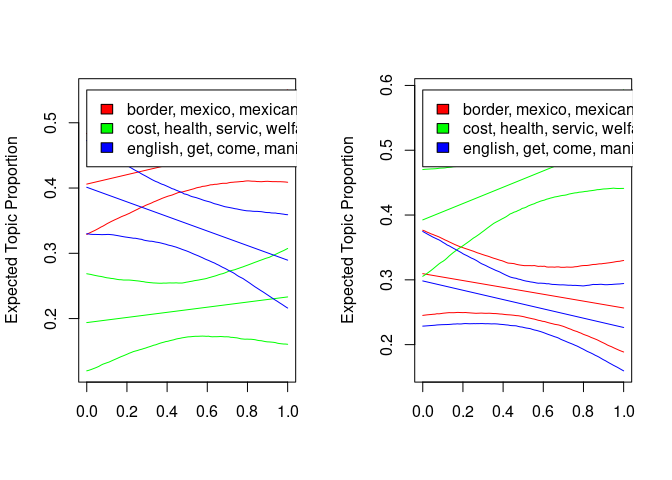
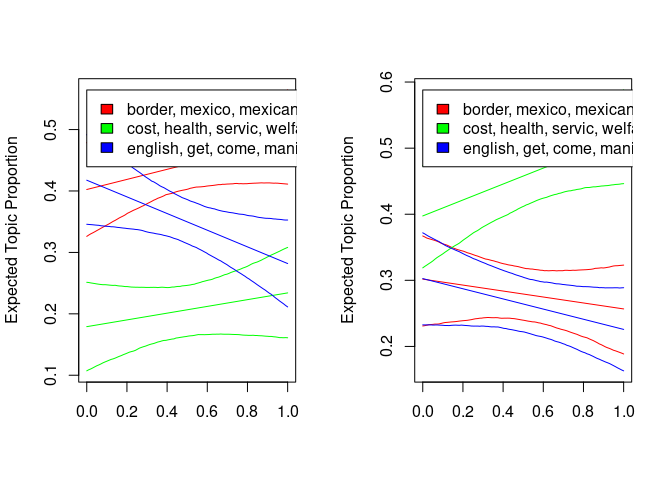
Added smiley to readme, important

diff --git a/README.md b/README.md
@@ -38,19 +38,19 @@ effect <- extract.estimateEffect(prep, "treatment", model = gadarianFit, method 
 
 print(effect)
 #>          method topic covariate covariate.value  estimate  std.error
-#> 1 pointestimate     1 treatment               1 0.2799562 0.02154427
-#> 2 pointestimate     1 treatment               0 0.4411912 0.02091986
-#> 3 pointestimate     2 treatment               1 0.4574562 0.02281224
-#> 4 pointestimate     2 treatment               0 0.2141744 0.02218771
-#> 5 pointestimate     3 treatment               1 0.2629705 0.02156781
-#> 6 pointestimate     3 treatment               0 0.3456699 0.02075912
+#> 1 pointestimate     1 treatment               1 0.2815323 0.02053227
+#> 2 pointestimate     1 treatment               0 0.4436950 0.02060402
+#> 3 pointestimate     2 treatment               1 0.4570565 0.02231340
+#> 4 pointestimate     2 treatment               0 0.2102854 0.02087753
+#> 5 pointestimate     3 treatment               1 0.2617144 0.01916173
+#> 6 pointestimate     3 treatment               0 0.3464319 0.02115404
 #>   ci.level  ci.lower  ci.upper                       label
-#> 1     0.95 0.2376846 0.3219419 Topic 1(Covariate Level: 1)
-#> 2     0.95 0.3999327 0.4824369 Topic 1(Covariate Level: 1)
-#> 3     0.95 0.4128875 0.5020247 Topic 2(Covariate Level: 1)
-#> 4     0.95 0.1733466 0.2584113 Topic 2(Covariate Level: 1)
-#> 5     0.95 0.2227190 0.3069685 Topic 3(Covariate Level: 1)
-#> 6     0.95 0.3058800 0.3861812 Topic 3(Covariate Level: 1)
+#> 1     0.95 0.2389746 0.3193814 Topic 1(Covariate Level: 1)
+#> 2     0.95 0.4033271 0.4835180 Topic 1(Covariate Level: 1)
+#> 3     0.95 0.4127487 0.5004476 Topic 2(Covariate Level: 1)
+#> 4     0.95 0.1692200 0.2498052 Topic 2(Covariate Level: 1)
+#> 5     0.95 0.2254129 0.2992667 Topic 3(Covariate Level: 1)
+#> 6     0.95 0.3051968 0.3875300 Topic 3(Covariate Level: 1)
 ```
 
 ``` r
@@ -117,3 +117,5 @@ ggplot(effect, aes(x = covariate.value, y = estimate,
 ```
 
 ![](README-unnamed-chunk-6-1.png)
+
+Much better :)
